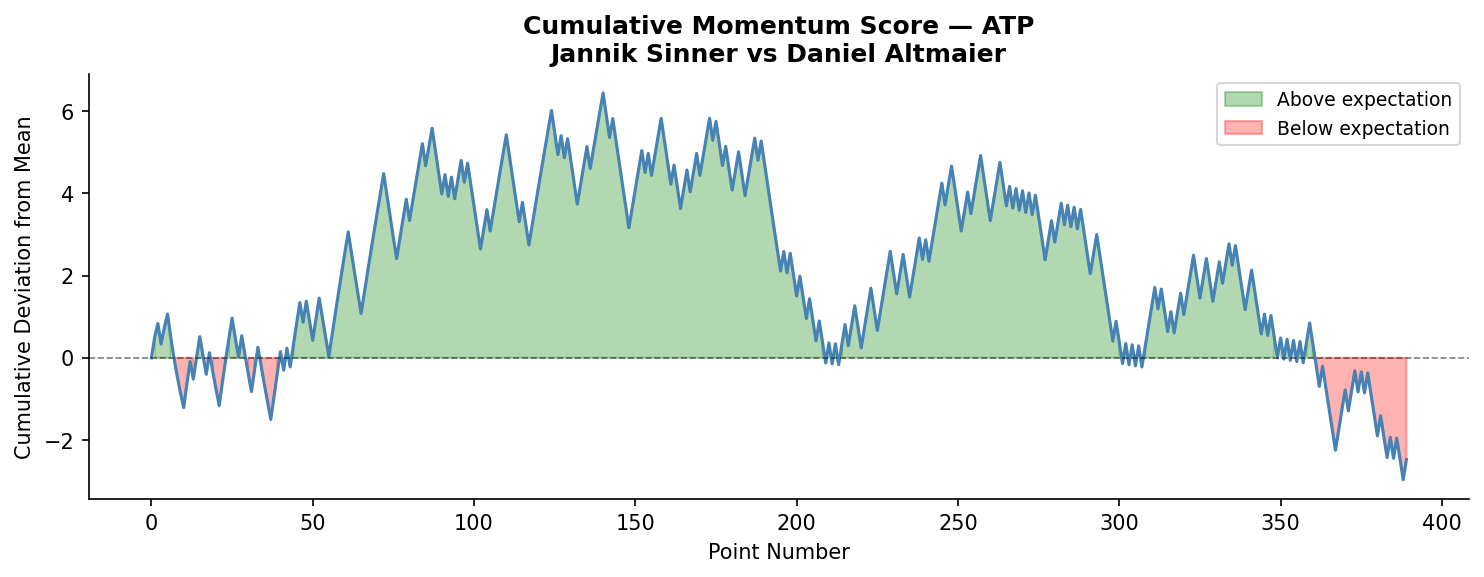
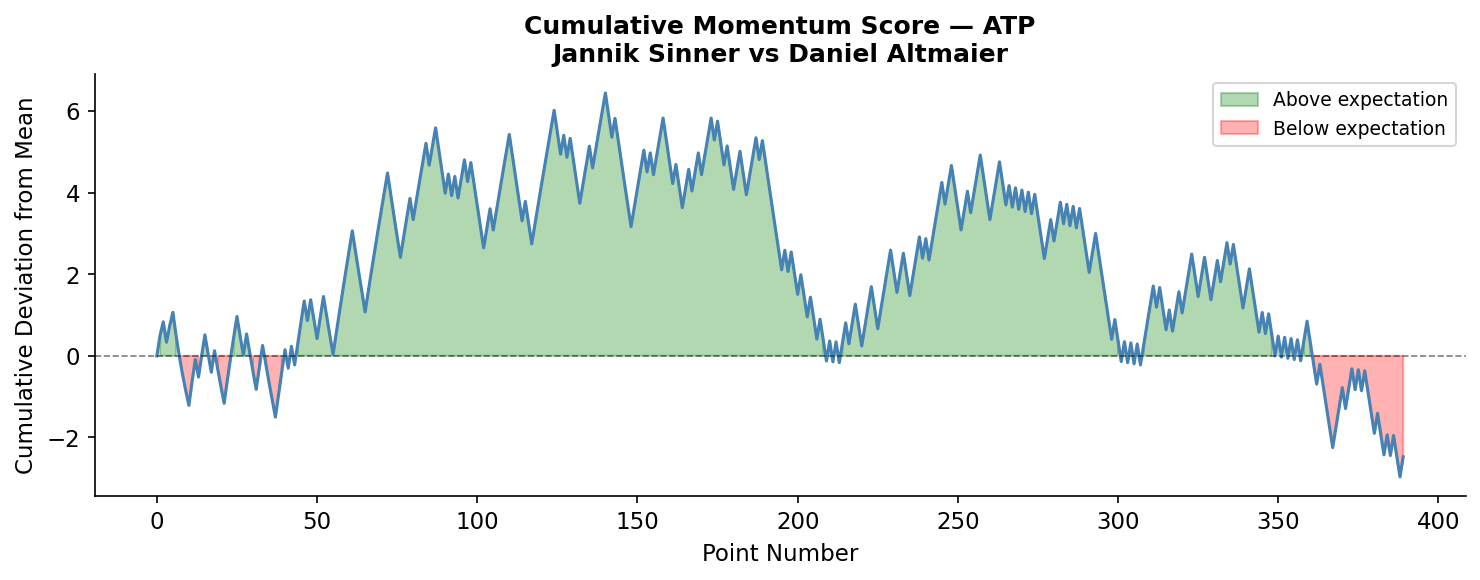
Add requirements.txt, global matplotlib rcParams, remove redundant per-chart settings

diff --git a/scripts/model.py b/scripts/model.py
@@ -11,8 +11,6 @@ Standalone — does not depend on clean.py or features.py.
 import os
 import warnings
 import numpy as np
-
-rng = np.random.default_rng(seed=42)
 import pandas as pd
 import matplotlib
 matplotlib.use('Agg')
@@ -22,6 +20,18 @@ from econml.dml import CausalForestDML
 from sklearn.ensemble import GradientBoostingRegressor
 
 warnings.filterwarnings('ignore')
+
+rng = np.random.default_rng(seed=42)
+
+plt.rcParams.update({
+    'font.family':      'sans-serif',
+    'font.size':        11,
+    'axes.spines.top':  False,
+    'axes.spines.right':False,
+    'figure.dpi':       150,
+    'savefig.dpi':      150,
+    'savefig.bbox':     'tight',
+})
 
 # ── Paths ─────────────────────────────────────────────────────────────────────
 BASE_DIR  = os.path.dirname(os.path.dirname(os.path.abspath(__file__)))
@@ -74,7 +84,7 @@ def plot_chi2_table(tests_path: str) -> None:
                  fontsize=12, fontweight='bold', pad=10)
 
     plt.tight_layout()
-    plt.savefig(os.path.join(OUT_DIR, 'output1_chi2_table.png'), dpi=150, bbox_inches='tight')
+    plt.savefig(os.path.join(OUT_DIR, 'output1_chi2_table.png'))
     plt.close()
     print('  Saved output1_chi2_table.png')
 
@@ -105,12 +115,9 @@ def plot_cusum(df: pd.DataFrame, tour_name: str) -> None:
     ax.set_xlabel('Point Number')
     ax.set_ylabel('Cumulative Deviation from Mean')
     ax.legend(fontsize=9)
-    ax.spines['top'].set_visible(False)
-    ax.spines['right'].set_visible(False)
-
     plt.tight_layout()
     fname = f'output2_cusum_{tour_name.lower()}.png'
-    plt.savefig(os.path.join(OUT_DIR, fname), dpi=150, bbox_inches='tight')
+    plt.savefig(os.path.join(OUT_DIR, fname))
     plt.close()
     print(f'  Saved {fname}')
 
@@ -131,13 +138,10 @@ def plot_tboe(atp: pd.DataFrame, wta: pd.DataFrame) -> None:
                      fontsize=12, fontweight='bold')
         ax.set_xlabel('Player Rank (by TBOE)')
         ax.set_ylabel('TBOE (actual minus expected win rate)')
-        ax.spines['top'].set_visible(False)
-        ax.spines['right'].set_visible(False)
-
     fig.suptitle('Tiebreak Over-Expectation (TBOE) by Player',
                  fontsize=13, fontweight='bold', y=1.02)
     plt.tight_layout()
-    plt.savefig(os.path.join(OUT_DIR, 'output3_tboe_scatter.png'), dpi=150, bbox_inches='tight')
+    plt.savefig(os.path.join(OUT_DIR, 'output3_tboe_scatter.png'))
     plt.close()
     print('  Saved output3_tboe_scatter.png')
 
@@ -270,14 +274,12 @@ def plot_cate(atp_cates, atp_X, wta_cates, wta_X) -> None:
         ax.set_xlabel('Player Ranking (most Grand Slam players ranked below 200)', fontsize=11)
         ax.set_ylabel('CATE (causal effect on next point)', fontsize=11)
         ax.tick_params(labelsize=10)
-        ax.spines['top'].set_visible(False)
-        ax.spines['right'].set_visible(False)
         ax.legend(fontsize=9)
 
     fig.suptitle('Heterogeneous Causal Effects (CATE) of High-Leverage Points',
                  fontsize=13, fontweight='bold', y=1.02)
     plt.tight_layout()
-    plt.savefig(os.path.join(OUT_DIR, 'output4_cate_plot.png'), dpi=150, bbox_inches='tight')
+    plt.savefig(os.path.join(OUT_DIR, 'output4_cate_plot.png'))
     plt.close()
     print('  Saved output4_cate_plot.png')
 
@@ -346,12 +348,9 @@ def plot_model_table(atp_coef, wta_coef, atp_ate, atp_ate_se, wta_ate, wta_ate_s
                           markerfacecolor=c, markersize=9, label=t)
                for t, c in colors.items()]
     ax.legend(handles=handles, fontsize=10)
-    ax.spines['top'].set_visible(False)
-    ax.spines['right'].set_visible(False)
 
     plt.tight_layout()
-    plt.savefig(os.path.join(OUT_DIR, 'output5_model_table.png'),
-                dpi=150, bbox_inches='tight')
+    plt.savefig(os.path.join(OUT_DIR, 'output5_model_table.png'))
     plt.close()
     print('  Saved output5_model_table.png')
 
@@ -383,13 +382,11 @@ def plot_feature_importance(atp_imp: pd.DataFrame, wta_imp: pd.DataFrame) -> Non
                      fontsize=12, fontweight='bold')
         ax.set_xlabel('Importance', fontsize=11)
         ax.tick_params(labelsize=10)
-        ax.spines['top'].set_visible(False)
-        ax.spines['right'].set_visible(False)
 
     fig.suptitle('Feature Importance from Causal Forest',
                  fontsize=13, fontweight='bold', y=1.02)
     plt.tight_layout()
-    plt.savefig(os.path.join(OUT_DIR, 'output6_feature_importance.png'), dpi=150, bbox_inches='tight')
+    plt.savefig(os.path.join(OUT_DIR, 'output6_feature_importance.png'))
     plt.close()
     print('  Saved output6_feature_importance.png')
 
